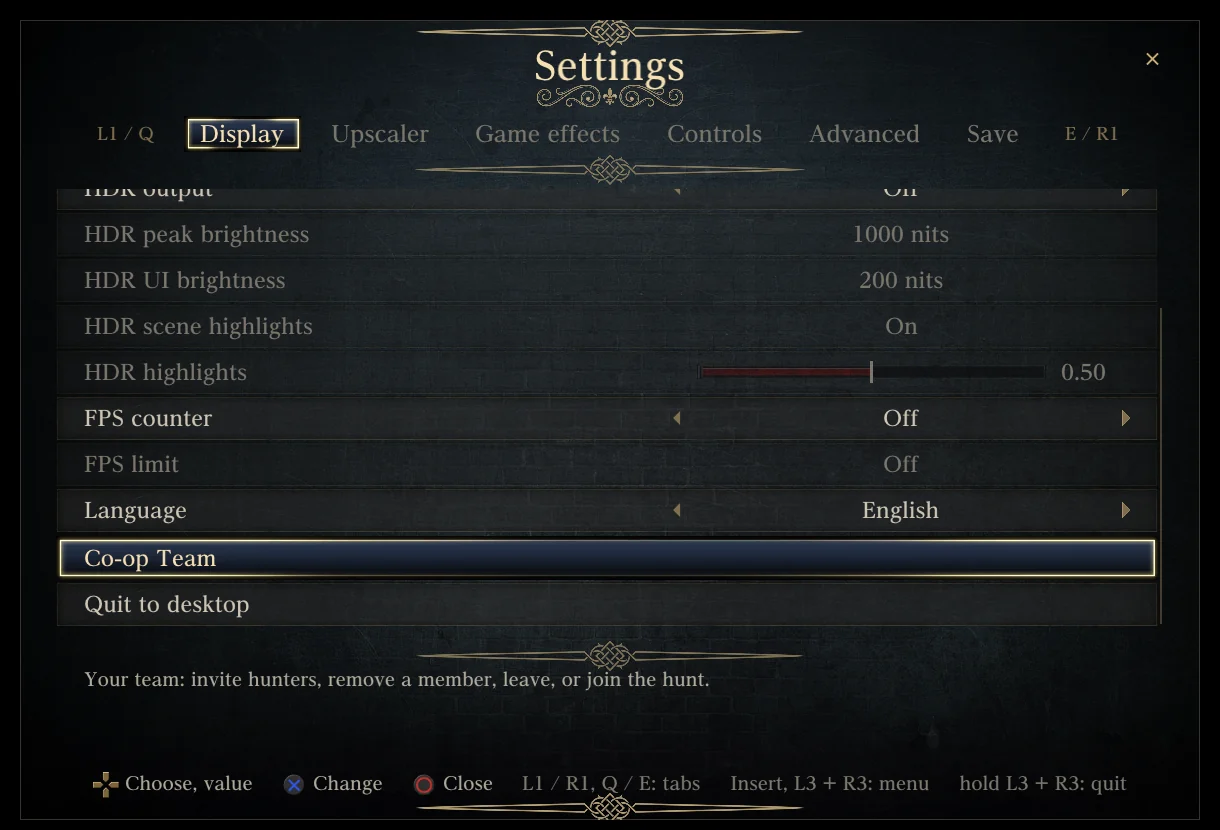
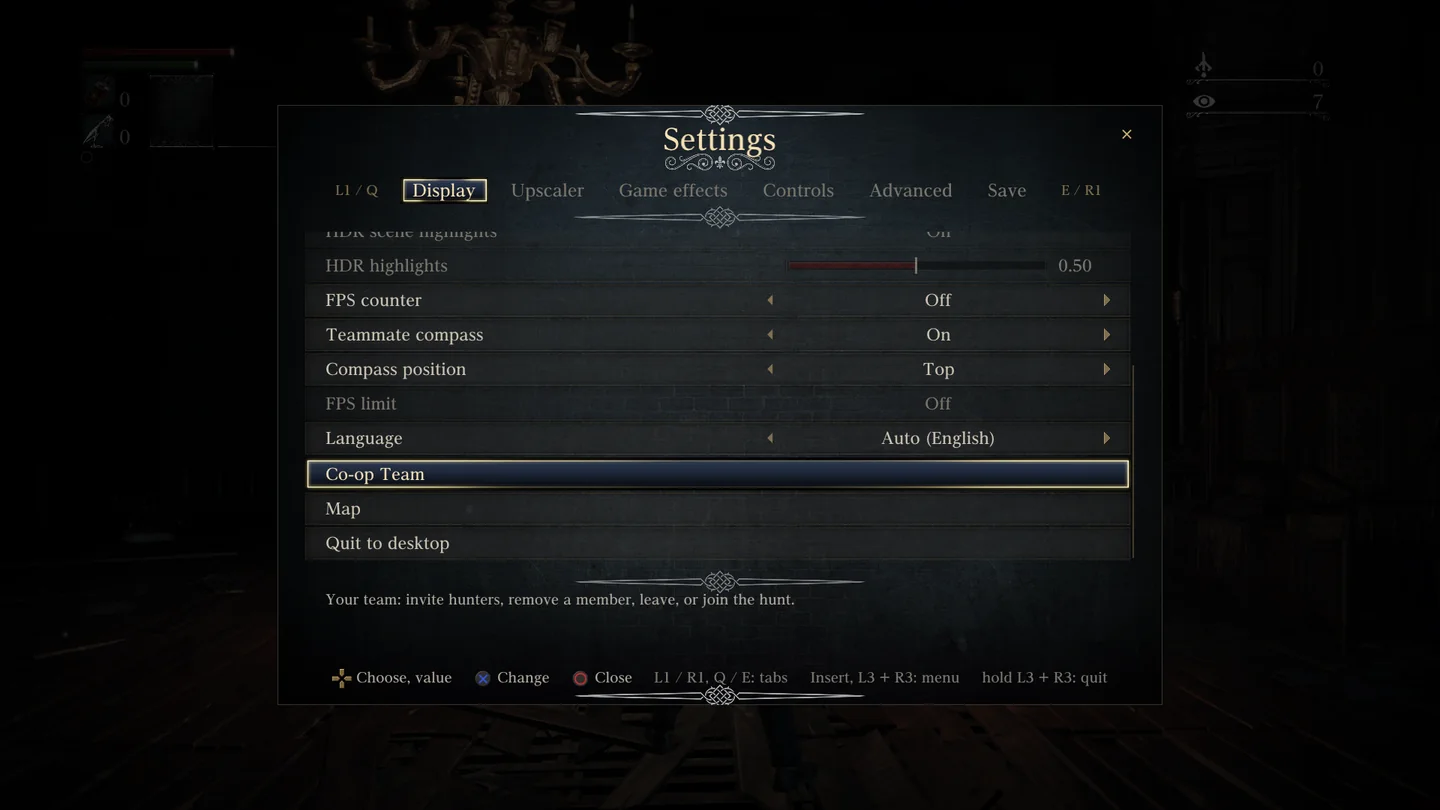
Website: replace the last screenshots from the first round (loading, Insert menu, Co-op Team page)
loading.webp, insert-team.webp and insert-menu.webp were still the 10-17 captures: gold team
screens, the old moon backdrop on the loading screen and an Insert menu without Map. They now come
from current 1080p captures; make_shots.py lists them, alt texts follow.

diff --git a/website/src/content/docs.ts b/website/src/content/docs.ts
@@ -757,7 +757,7 @@ const play: DocPage = {
               src: "/docs/loading.webp",
               width: 1440,
               height: 810,
-              alt: "The Hunt Begins loading screen over a night city under the moon, with cards for Player 1 and Player 2, both Joining the hunt at about 80 percent.",
+              alt: "The Hunt Begins loading screen, with cards for Player 1 and Player 2, both Joining the hunt at about 80 percent.",
               caption: "The Hunt Begins: everyone loads, then the hunt opens at once.",
             },
             {
@@ -1212,15 +1212,15 @@ const play: DocPage = {
       blocks: [
         {
           type: "p",
-          text: "**Insert** on the keyboard, or **L3 + R3** on a pad, opens the port's settings over the game, with Co-op Team, Apply and restart the game and Quit to desktop. The frame rate shows 60 (co-op) and can't be changed while playing together.",
+          text: "**Insert** on the keyboard, or **L3 + R3** on a pad, opens the port's settings over the game, with Co-op Team, Map, Apply and restart the game and Quit to desktop. The frame rate shows 60 (co-op) and can't be changed while playing together.",
         },
         {
           type: "image",
           src: "/docs/insert-menu.webp",
-          alt: "The Insert settings menu over the game, on the Display tab, with Co-op Team selected above Quit to desktop.",
-          caption: "The Insert menu, with Co-op Team at the bottom.",
-          width: 1220,
-          height: 830,
+          alt: "The Insert settings menu over the game, on the Display tab, with Co-op Team selected above Map and Quit to desktop.",
+          caption: "The Insert menu, with Co-op Team near the bottom.",
+          width: 1440,
+          height: 810,
         },
         {
           type: "gallery",

diff --git a/website/src/app/page.tsx b/website/src/app/page.tsx
@@ -104,7 +104,7 @@ const features: {
     src: "/docs/insert-team.webp",
     width: 1440,
     height: 810,
-    alt: "The Co-op Team page from the Insert menu: Player 1 and Player 2 In the hunt, two empty places, Hunters online and Invitations.",
+    alt: "The Co-op Team page from the Insert menu: Player 1, Player 2 and Player 3 In the hunt, one empty place, Hunters online and Invitations.",
   },
   {
     title: "Ready, then the hunt",
@@ -203,7 +203,7 @@ export default function Home() {
         <figure>
           <Image
             src="/docs/loading.webp"
-            alt="The Hunt Begins loading screen: cards for Player 1 and Player 2 over a night city under the moon."
+            alt="The Hunt Begins loading screen: cards for Player 1 and Player 2, both joining the hunt."
             width={1440}
             height={810}
             priority

diff --git a/website/scripts/shots/make_shots.py b/website/scripts/shots/make_shots.py
@@ -58,6 +58,7 @@ SHOTS = [
     ("team-joined", "game-team-5-joined.png", GAME, 1440),
     ("team-ready", "game-team-6-ready.png", GAME, 1440),
     ("team-begin", "game-team-7-begin-the-hunt.png", GAME, 1440),
+    ("loading", "game-loading-2-b.png", GAME, 1440),
     ("loading-2", "game-loading-2-b.png", GAME, 1440),
     ("loading-3", "game-loading-3-b.png", GAME, 1440),
     ("loading-waiting", "game-loading-3-waiting.png", GAME, 1440),
@@ -66,6 +67,8 @@ SHOTS = [
     ("hotjoin-loading", "game-hot-join-3-loading.png", GAME, 1440),
     ("hotjoin-joined", "game-hot-join-4-joined.png", GAME, 1440),
     ("hotjoin-leader", "game-hot-join-5-leader-view.png", GAME, 1440),
+    ("insert-team", "game-hot-join-5-leader-view.png", GAME, 1440),
+    ("insert-menu", "game-insert-menu-coop-team.png", GAME, 1440),
     # map and compass
     ("map-team", "game-map-team.png", GAME, 1440),
     ("map-hunters", "game-map-hunters-3.png", GAME, 1440),
